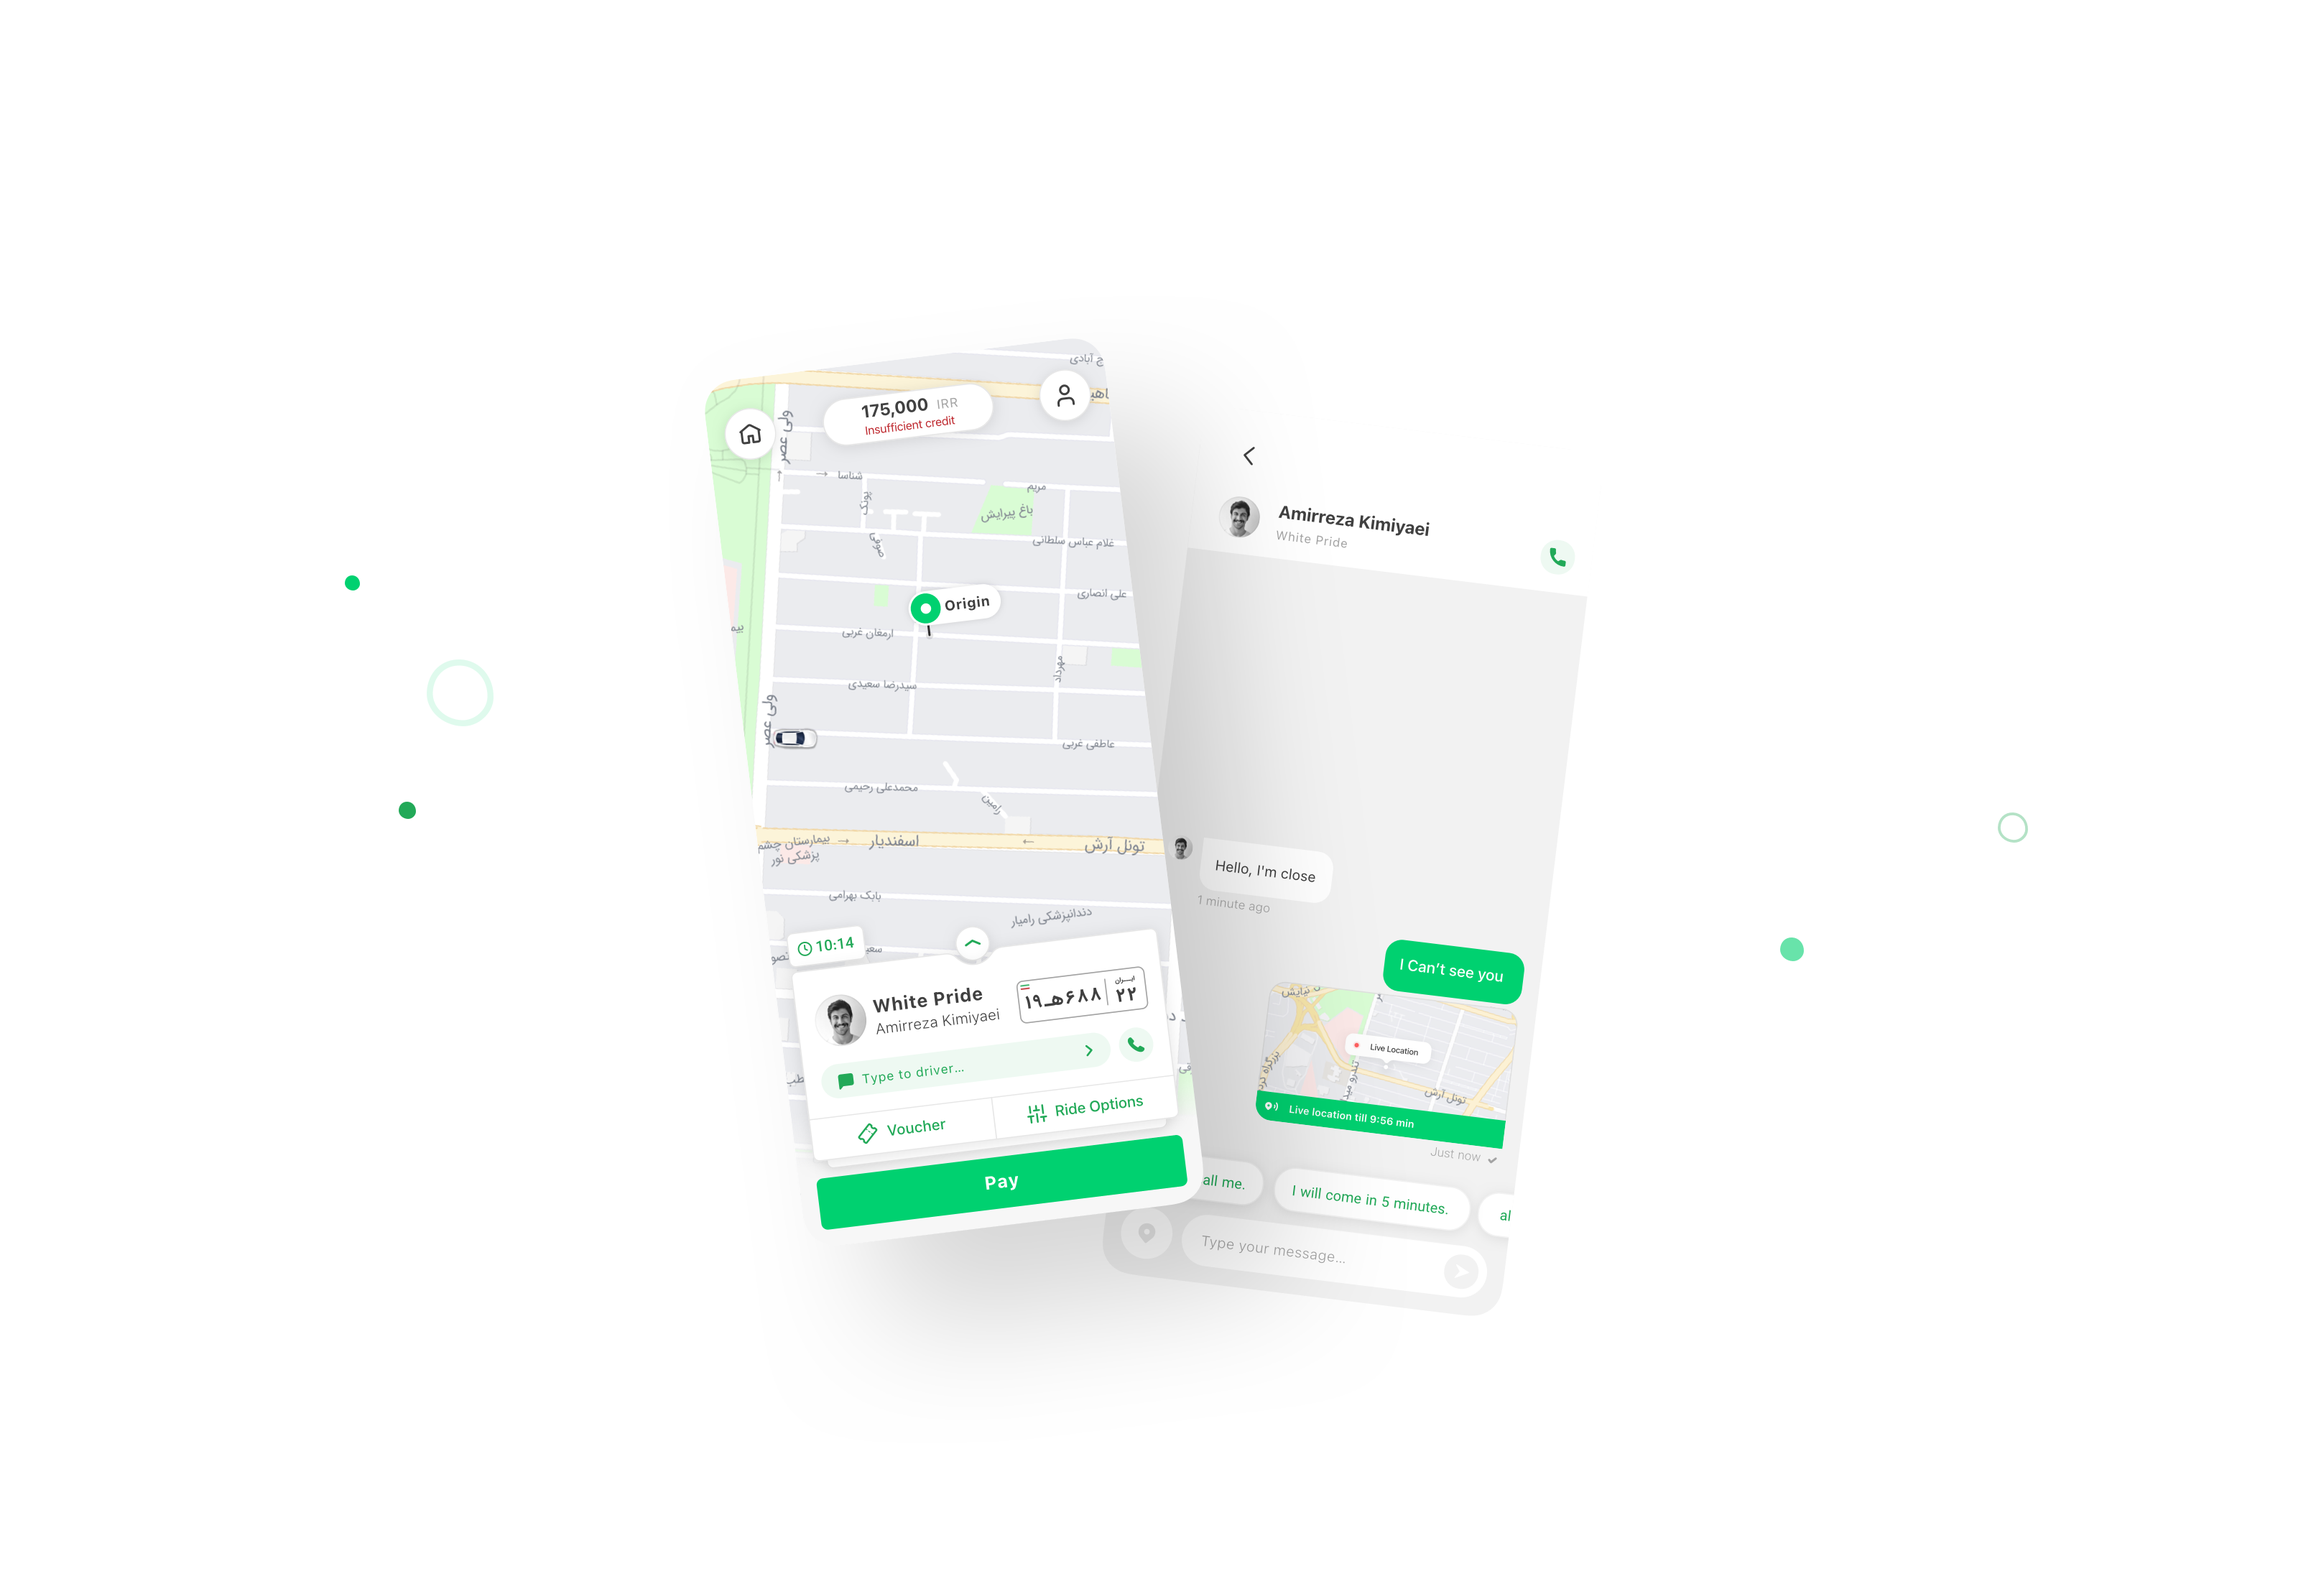
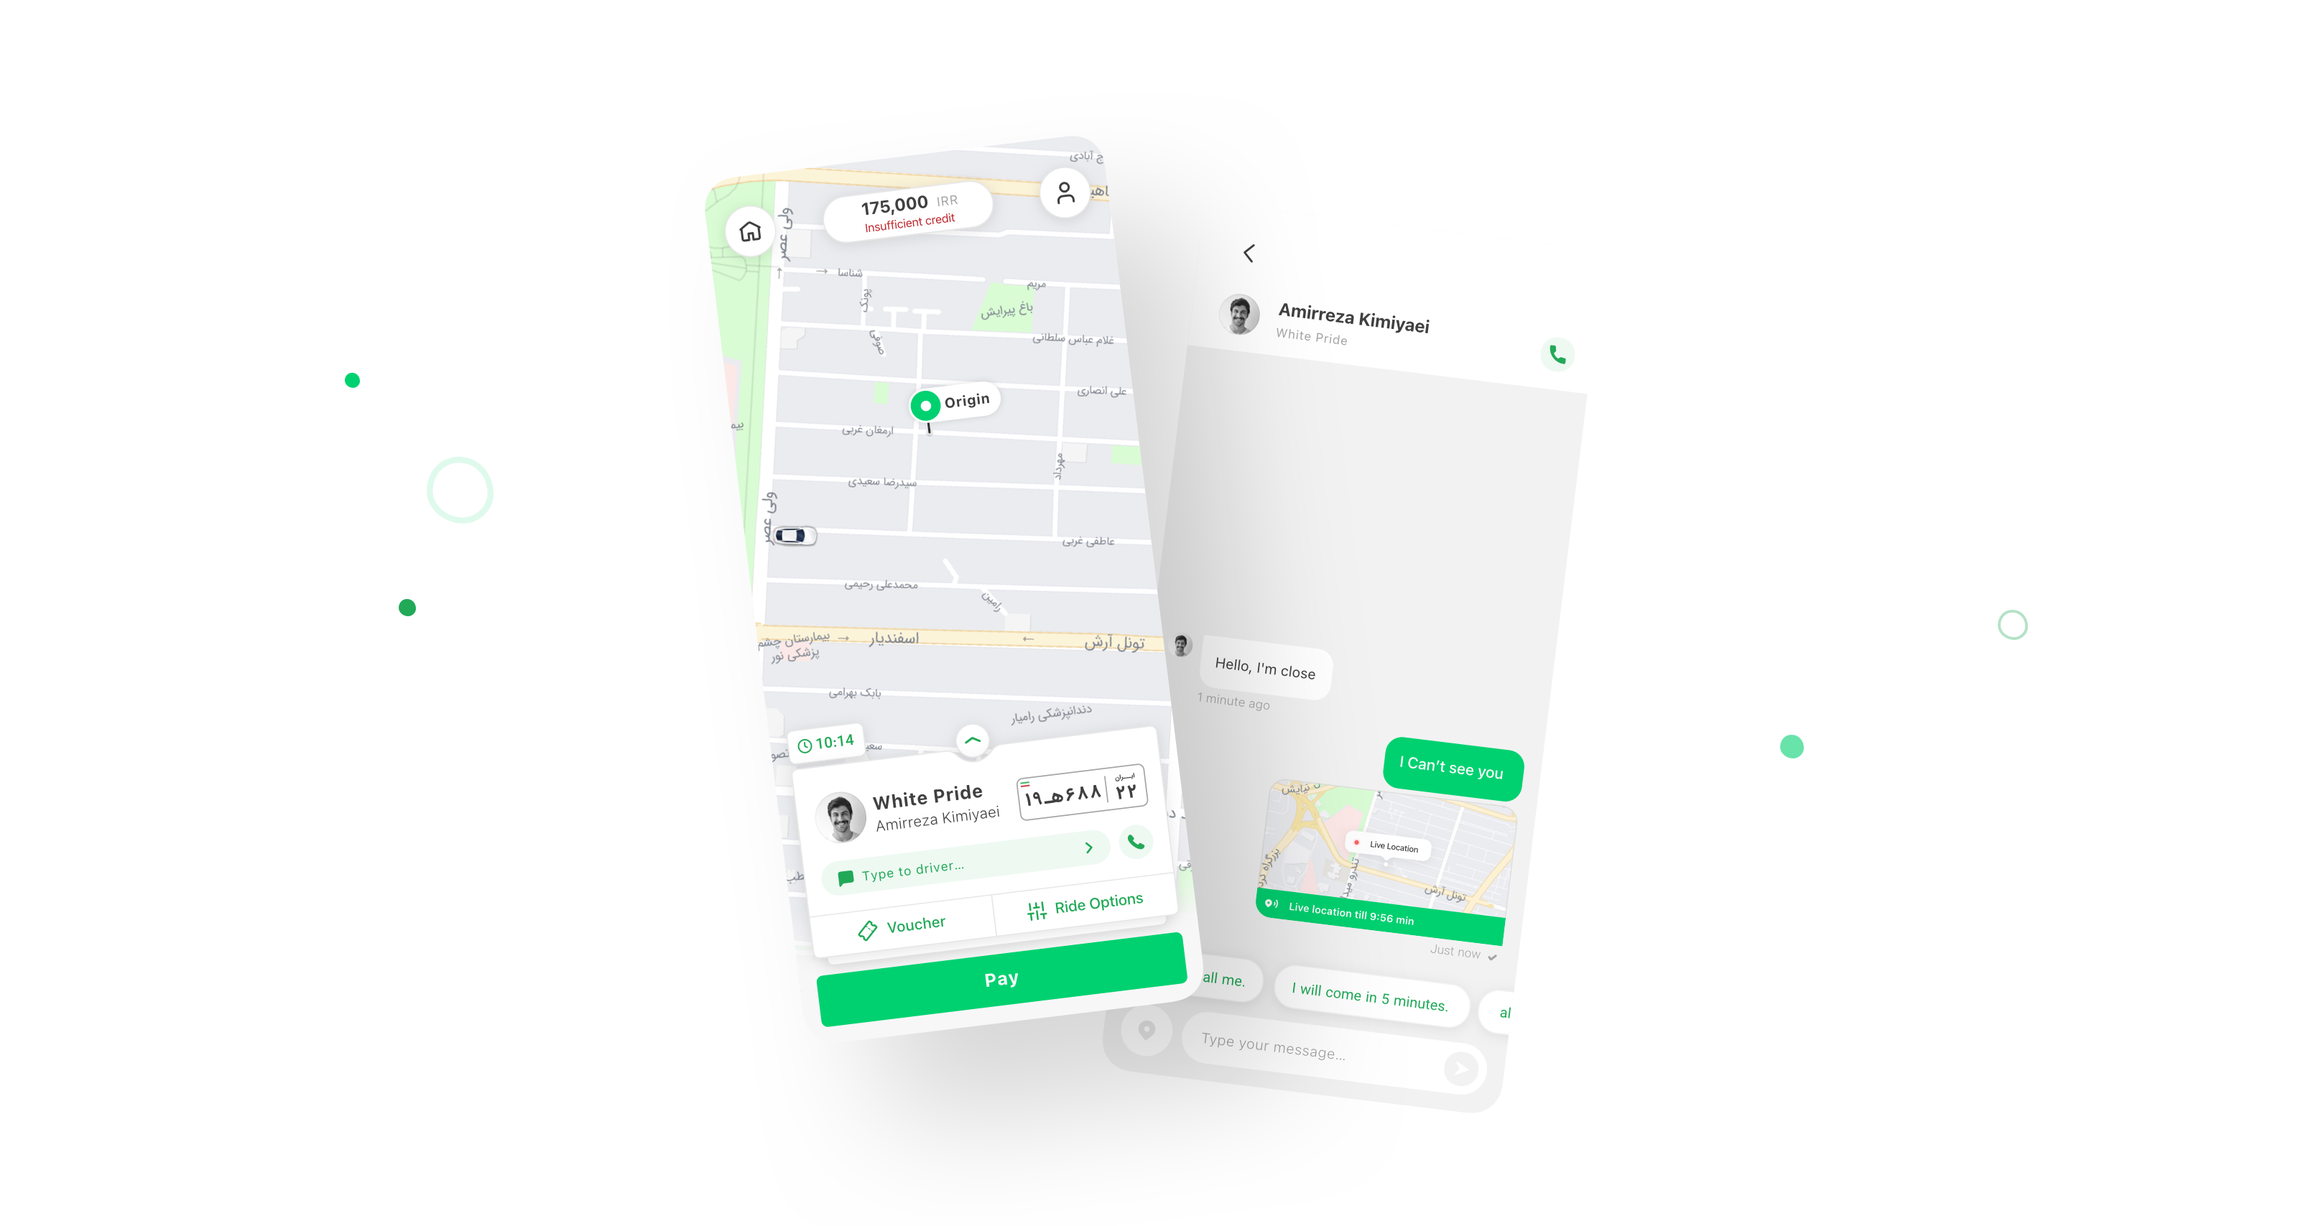
fix chat layout

diff --git a/css/works.css b/css/works.css
@@ -361,6 +361,11 @@ footer {
     transform: rotate(-45deg) translateY(-3px);
 }
 
+.chat .work-image img {
+    padding-right: 32px;
+    padding-left: 32px;
+}
+
 @media only screen and (min-width: 945px) {
     .tannaz-image img {
         margin-left: 0;
@@ -412,12 +417,18 @@ footer {
     }
 
     .vouchers .work-image-normal img {
-        /* max-width: 750px; */
         height: 600px;
     }
     
     .vouchers .work-image img {
-        /* max-width: 750px; */
         height: 600px;
+    }
+
+    .chat .work-image img {
+        max-width: 600px;
+    }
+
+    #problem {
+        height: auto;
     }
 }

diff --git a/works/chat.html b/works/chat.html
@@ -166,10 +166,10 @@
         <div class="work-image margin-top-24">
             <img src="../assets/chat/group-22.png" alt="Making chat more visible"/>
         </div>
-        <div class="work-image margin-top-72">
+        <div class="work-image margin-top-0">
             <img src="../assets/chat/group-25.png" alt="Read and delivered indicators"/>
         </div>
-        <div class="work-image margin-top-72">
+        <div class="work-image margin-top-0">
             <img src="../assets/chat/group-24.png" alt="Sending Location"/>
         </div>
     </div>

diff --git a/works/vouchers.html b/works/vouchers.html
@@ -64,7 +64,7 @@
             </p>
         </article>
         <div class="work-image">
-            <img src="../assets/vouchers/icon-problem.svg" alt="Problem Icon"/>
+            <img src="../assets/vouchers/icon-problem.svg" id="problem" alt="Problem Icon"/>
         </div>
     </div>
     <div class="back-black padding-bottom-55">
